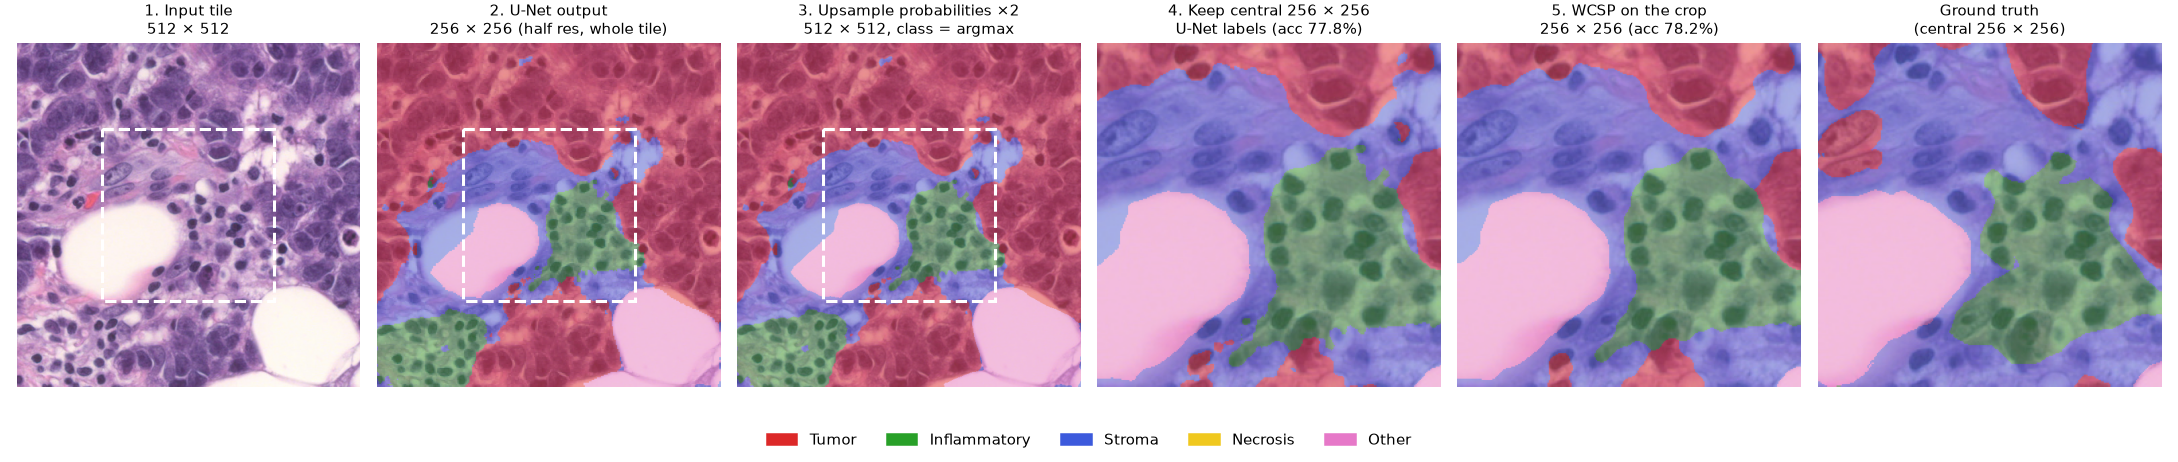
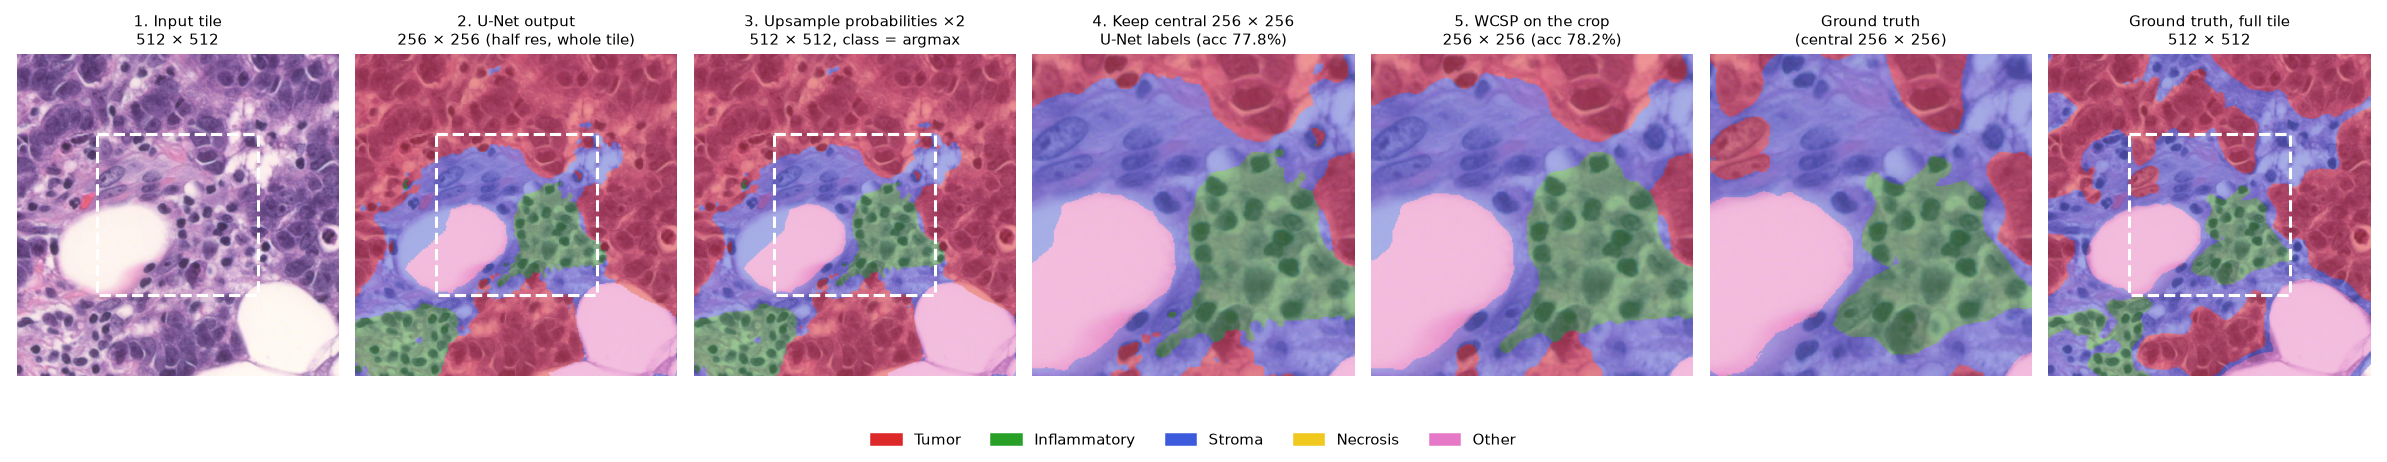
D5: side-by-side b tables, unified λ explanation, per-class BCSS table, full-tile GT in pipeline figure; wcsp: tile layout, chain solver, skip provably optimal blocks
Claude-Session: https://claude.ai/code/session_013xyfqewhkNUScJRr4V2t6C

diff --git a/wcsp/solve/blocks.py b/wcsp/solve/blocks.py
@@ -55,6 +55,28 @@ class BlockLayout:
         return cls(phases=(tuple(corners), (cross,)))
 
     @classmethod
+    def tiles(cls, shape, size=16):
+        """
+        size x size tiles REACH px apart, so the tiles of one phase never
+        interact; four phases shifted by half a stride cover every pixel.
+        """
+        height, width = shape
+        stride = size + REACH
+        phases = []
+        for dy, dx in ((0, 0), (stride // 2, 0), (0, stride // 2), (stride // 2, stride // 2)):
+            regions = []
+            for y in range(dy - stride, height, stride):
+                for x in range(dx - stride, width, stride):
+                    rows = slice(max(y, 0), max(min(y + size, height), 0))
+                    cols = slice(max(x, 0), max(min(x + size, width), 0))
+                    if rows.stop > rows.start and cols.stop > cols.start:
+                        mask = np.zeros(shape, dtype=bool)
+                        mask[rows, cols] = True
+                        regions.append(mask)
+            phases.append(tuple(regions))
+        return cls(phases=tuple(phases))
+
+    @classmethod
     def whole(cls, shape):
         """No decomposition: one region covering the image."""
         return cls(phases=((np.ones(shape, dtype=bool),),))
@@ -120,7 +142,13 @@ class BlockCoordinateDescent:
                         region = region & active
                         if region.any():
                             sub, window = condition(problem, labels, region)
-                            jobs.append((sub, window, labels[window].copy()))
+                            before = labels[window].copy()
+                            # Pairwise costs are >= 0, so the sum of the smallest
+                            # unaries bounds the region's optimum: skip regions
+                            # already at that bound.
+                            bound = sub.constant + sub.unary[sub.active_mask].min(-1).sum()
+                            if energy(sub, before) > bound + self.tol:
+                                jobs.append((sub, window, before))
                     if pool is None:
                         results = [self.inner.solve(sub, before) for sub, _, before in jobs]
                     else:

diff --git a/tests/wcsp/test_wcsp_solve.py b/tests/wcsp/test_wcsp_solve.py
@@ -114,6 +114,37 @@ def test_cross_layout_matches_the_notes():
         BlockLayout.cross((10, 10), block=4)
 
 
+def test_tile_layout_covers_every_pixel_without_interacting_tiles():
+    from wcsp.solve.blocks import REACH
+
+    layout = BlockLayout.tiles((40, 37), size=8)
+    covered = np.zeros((40, 37), dtype=bool)
+    for regions in layout.phases:
+        for a, b in itertools.combinations(regions, 2):
+            ya, xa = np.nonzero(a)
+            yb, xb = np.nonzero(b)
+            gap_y = max(yb.min() - ya.max(), ya.min() - yb.max())
+            gap_x = max(xb.min() - xa.max(), xa.min() - xb.max())
+            assert max(gap_y, gap_x) > REACH
+        covered |= np.any(regions, axis=0)
+    assert covered.all()
+
+
+def test_chain_never_increases_energy():
+    from wcsp.solve.factory import get_solver
+
+    problem, _, rng = random_problem(shape=(30, 30), lam=20.0)
+    init = rng.integers(0, NUM_LABELS, problem.shape)
+    solver = get_solver({"name": "chain", "stages": [
+        {"name": "blocks", "block": 12, "inner": {"name": "icm"}},
+        {"name": "blocks", "tile": 8, "inner": {"name": "icm"}},
+    ]})
+    first = solver.stages[0].solve(problem, init)
+    result = solver.solve(problem, init)
+    assert result.energy <= first.energy + 1e-9
+    assert result.energy == pytest.approx(energy(problem, result.labels))
+
+
 def test_block_descent_never_increases_energy():
     problem, _, rng = random_problem(shape=(30, 30), lam=20.0)
     init = rng.integers(0, NUM_LABELS, problem.shape)

diff --git a/wcsp/solve/factory.py b/wcsp/solve/factory.py
@@ -3,6 +3,7 @@
 
 from .argmax import ArgmaxSolver
 from .blocks import BlockCoordinateDescent, BlockLayout
+from .chain import ChainSolver
 from .icm import ICMSolver
 
 
@@ -21,9 +22,16 @@ def get_solver(spec):
         inner = get_solver(spec.pop("inner", {"name": "icm"}))
         block = spec.pop("block", 100)
         whole = spec.pop("whole", False)
+        tile = spec.pop("tile", None)
 
         def layout_for(shape):
-            return BlockLayout.whole(shape) if whole else BlockLayout.cross(shape, block)
+            if whole:
+                return BlockLayout.whole(shape)
+            if tile:
+                return BlockLayout.tiles(shape, tile)
+            return BlockLayout.cross(shape, block)
 
         return BlockCoordinateDescent(inner, layout=layout_for, **spec)
+    if name == "chain":
+        return ChainSolver([get_solver(stage) for stage in spec.pop("stages")])
     raise ValueError(f"unknown solver {name!r}.")

diff --git a/wcsp/solve/chain.py b/wcsp/solve/chain.py
@@ -1,0 +1,21 @@
+# Run several solvers one after another, each starting from the previous
+# result, e.g. fast ICM over the whole grid, then toulbar2 on small tiles.
+
+import time
+
+from .base import SolveResult
+
+
+class ChainSolver:
+    def __init__(self, stages):
+        self.stages = stages
+
+    def solve(self, problem, init):
+        start = time.perf_counter()
+        labels, trace, result = init, [], None
+        for i, stage in enumerate(self.stages):
+            result = stage.solve(problem, labels)
+            labels = result.labels
+            trace.extend({**t, "stage": i} for t in result.trace)
+        return SolveResult(labels, result.energy, time.perf_counter() - start,
+                           lower_bound=result.lower_bound, trace=trace)

diff --git a/experiments/bcss_wcsp/make_figures.py b/experiments/bcss_wcsp/make_figures.py
@@ -83,8 +83,9 @@ def pipeline_figure(cfg, sample_id, out):
         (f"4. Keep central 256 × 256\nU-Net labels (acc {accuracy(init, target):.1%})", overlay(sample.grid_image, init), None),
         (f"5. WCSP on the crop\n256 × 256 (acc {accuracy(refined, target):.1%})", overlay(sample.grid_image, refined), None),
         ("Ground truth\n(central 256 × 256)", overlay(sample.grid_image, target), None),
+        ("Ground truth, full tile\n512 × 512", overlay(image, sample.target), 512),
     ]
-    fig, axes = plt.subplots(1, len(panels), figsize=(3.3 * len(panels), 4.2))
+    fig, axes = plt.subplots(1, len(panels), figsize=(3.1 * len(panels), 4.2))
     for ax, (title, img, size) in zip(axes, panels):
         ax.imshow(img)
         if size:

diff --git a/deliverables/deliverable_5.md b/deliverables/deliverable_5.md
@@ -7,7 +7,7 @@ We take a trained classifier's per-pixel predictions and refine them with a **we
 | Classifier | HoVer-Net (nucleus instances + class) | TIAToolbox U-Net (per-pixel tissue class) |
 | WCSP grid | 164 × 164 HoVer-Net region; only nucleus pixels are variables | central 256 × 256 of each 512 tile; every pixel is a variable |
 | Labels | neoplastic, inflammatory, connective, dead, non-neoplastic epithelial | tumor, inflammatory, stroma, necrosis, other |
-| Code | [`experiments/pannuke_d5/`](../experiments/pannuke_d5/) | [`wcsp/`](../wcsp/), [`experiments/bcss_wcsp/`](../experiments/bcss_wcsp/) |
+| Code | shared [`wcsp/`](../wcsp/) solver + [`experiments/pannuke_d5/`](../experiments/pannuke_d5/) | shared [`wcsp/`](../wcsp/) package + [`experiments/bcss_wcsp/`](../experiments/bcss_wcsp/) |
 
 **Headline.** The WCSP only reliably fixes **boundaries**, never whole wrong regions.
 - **BCSS:** a small but real gain, mIoU 0.6489 → 0.6507 (+0.0019, 95% CI [+0.0010, +0.0027]) on 2,124 held-out-hospital tiles.
@@ -24,24 +24,45 @@ We take a trained classifier's per-pixel predictions and refine them with a **we
 - **Pairwise cost (the biology rules):**
   - Applies to every pixel pair up to 2√2 px apart: 24 neighbors, 5 distance types (left panel).
   - Cost = b[label, label′] / distance. Closer neighbors count more; same label is free.
-  - **b** is the class-compatibility table from the project notes:
+  - **b** is the class-compatibility table from the project notes. Both datasets use the same numbers; only the class names differ:
 
-    | | Neo/Tumor | Inflam. | Conn./Stroma | Dead/Necrosis | Healthy/Other |
-    |---|---|---|---|---|---|
-    | **Neo/Tumor** | 0 | 2 | 1 | 1 | 9 |
-    | **Inflam.** | | 0 | 2 | 1 | 8 |
-    | **Conn./Stroma** | | | 0 | 5 | 1 |
-    | **Dead/Necrosis** | | | | 0 | 10 |
-    | **Healthy/Other** | | | | | 0 |
+<table>
+<tr><th>PanNuke</th><th>BCSS</th></tr>
+<tr><td>
 
-    The last class is *non-neoplastic epithelial* for PanNuke and *other* for BCSS. BCSS also tests a data-derived b (§3).
+| | Neo | Inf | Con | Dead | Epi |
+|---|---|---|---|---|---|
+| **Neo** | 0 | 2 | 1 | 1 | 9 |
+| **Inf** | | 0 | 2 | 1 | 8 |
+| **Con** | | | 0 | 5 | 1 |
+| **Dead** | | | | 0 | 10 |
+| **Epi** | | | | | 0 |
+
+Neo = neoplastic, Inf = inflammatory, Con = connective, Epi = non-neoplastic epithelial
+
+</td><td>
+
+| | Tum | Inf | Str | Nec | Oth |
+|---|---|---|---|---|---|
+| **Tum** | 0 | 2 | 1 | 1 | 9 |
+| **Inf** | | 0 | 2 | 1 | 8 |
+| **Str** | | | 0 | 5 | 1 |
+| **Nec** | | | | 0 | 10 |
+| **Oth** | | | | | 0 |
+
+Tum = tumor, Inf = inflammatory, Str = stroma, Nec = necrosis, Oth = other. BCSS also tests a data-derived b (§3).
+
+</td></tr>
+</table>
+
 - **Unary cost (trust the classifier).** This is where the two datasets differ:
 
   | | PanNuke | BCSS |
   |---|---|---|
   | Unary | **λ if the pixel changes from HoVer-Net's label, else 0** | **−log p(label)** from the U-Net (p = 0.9 → 0.1, p = 0.01 → 4.6) |
   | Uses classifier certainty? | No: HoVer-Net's saved output has labels only | **Yes:** unsure pixels are cheap to change |
-  | λ multiplies | the unary (higher λ = stronger fidelity) | the pairwise (higher λ = stronger rules) |
+
+- **The trade-off knob λ (same idea on both datasets):** λ balances *trust the classifier* against *follow the rules*, and only that balance matters. PanNuke writes it as λ · unary + pairwise; BCSS writes it as unary + λ · pairwise. Those are the same thing with λ inverted: a small λ on PanNuke is a large λ on BCSS. So on PanNuke a *lower* λ means stronger rules, and on BCSS a *higher* λ does.
 
 - **Solver (both datasets):** block scheme + ICM.
   - Block scheme (right panel): solve the four corner blocks with the cross fixed, then the cross with the corners fixed; repeat. Blocks are 100/56/100 px on BCSS and 60/44/60 px on PanNuke.
@@ -409,6 +430,24 @@ U-Net alone: pixel acc **0.8414**, mIoU **0.6489**. This matches the repo's earl
 - **Same picture as dev.** A small, reliable gain that levels off by λ ≈ 4, and the two tables are tied.
 - **The gain is smaller than on dev** (+0.0019 vs. +0.0030). New hospitals look different, so the U-Net's mistakes there are more often whole regions, which the WCSP can't fix.
 - **About 0.9% of pixels change.** That's +0.05–0.08 pp of pixel accuracy, so the mIoU gain comes from the edges of the smaller classes.
+
+#### Per class (val, λ = 8)
+
+| Method | Tumor | Stroma | Inflam. | Necrosis | Other |
+|---|---:|---:|---:|---:|---:|
+| **IoU** — U-Net alone | 0.813 | 0.721 | 0.617 | 0.669 | 0.424 |
+| WCSP, handwritten b | 0.813 | 0.722 | 0.618 | 0.670 | **0.431** |
+| WCSP, data-derived b | 0.814 | 0.722 | 0.618 | 0.671 | 0.427 |
+| **Precision** — U-Net alone | 0.892 | 0.828 | 0.800 | 0.805 | 0.604 |
+| WCSP, handwritten b | 0.891 | 0.827 | 0.802 | 0.809 | **0.622** |
+| WCSP, data-derived b | 0.893 | 0.828 | 0.803 | 0.807 | 0.611 |
+| **Recall** — U-Net alone | 0.902 | 0.848 | 0.730 | 0.798 | 0.586 |
+| WCSP, handwritten b | 0.903 | 0.850 | 0.729 | 0.795 | 0.584 |
+| WCSP, data-derived b | 0.903 | 0.850 | 0.729 | 0.799 | 0.586 |
+
+- **Most of the mIoU gain is the "other" class, through precision** (0.604 → 0.622 with handwritten b).
+- **Why:** the handwritten table makes "other" very expensive next to tumor, inflammatory and necrosis (8–10). Stray "other" specks inside those regions get relabeled, and recall barely moves.
+- The data-derived table penalizes "other" less, so it cleans fewer specks.
 
 #### Step 4. Does a real WCSP solver do better than greedy ICM? (val, handwritten b, λ = 4)
 
